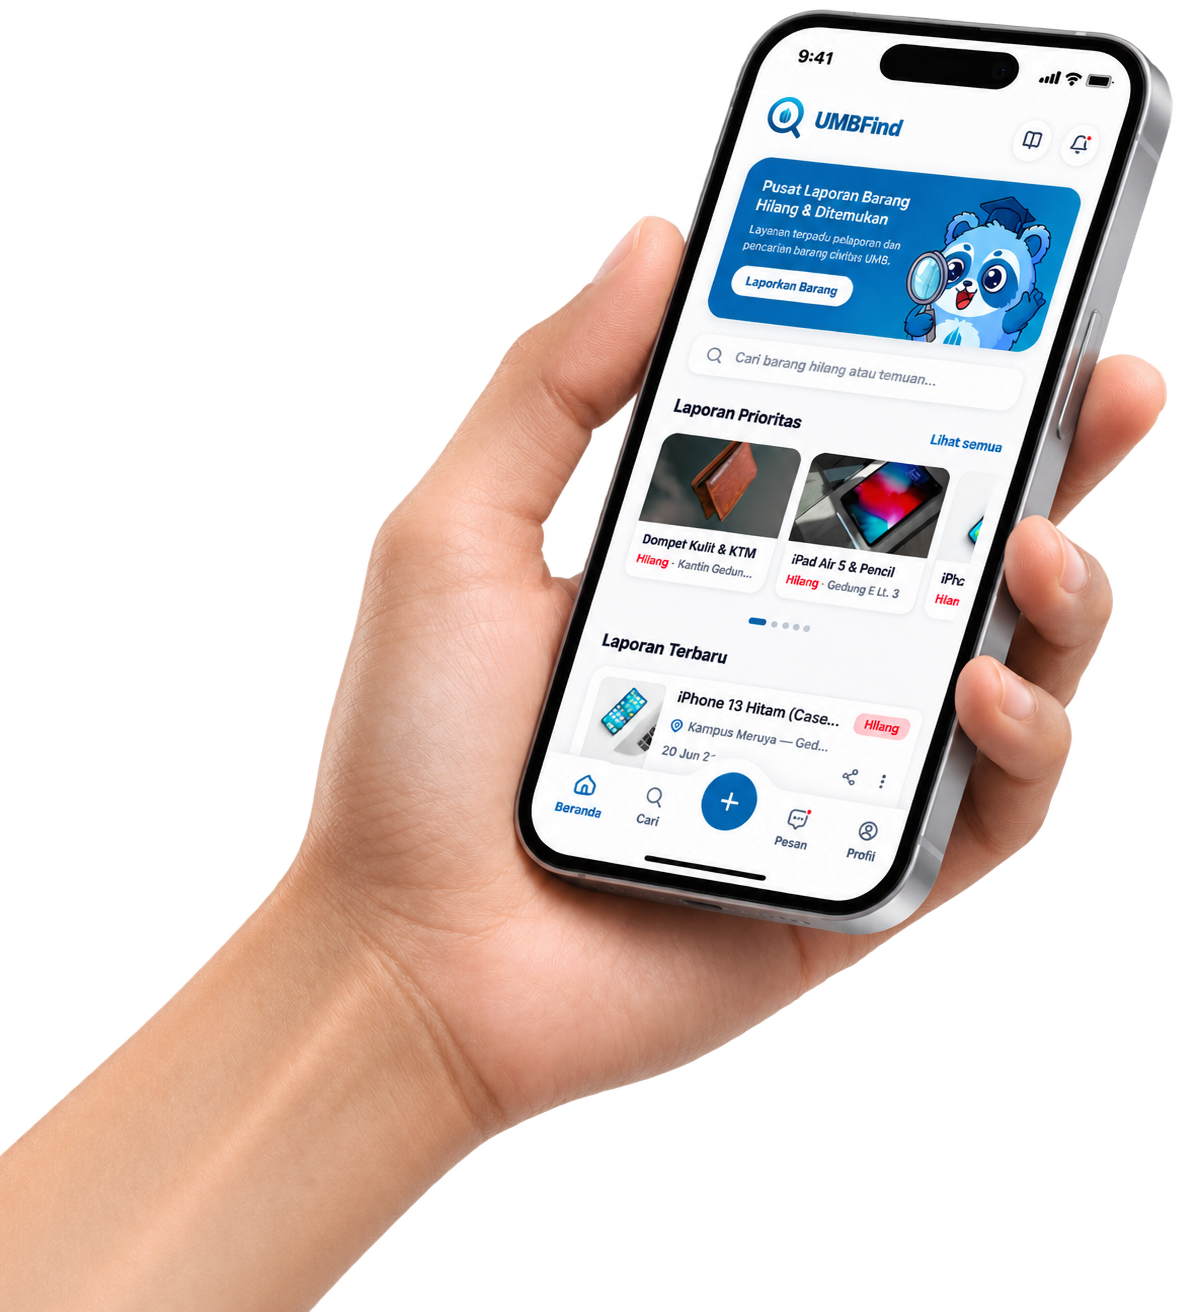
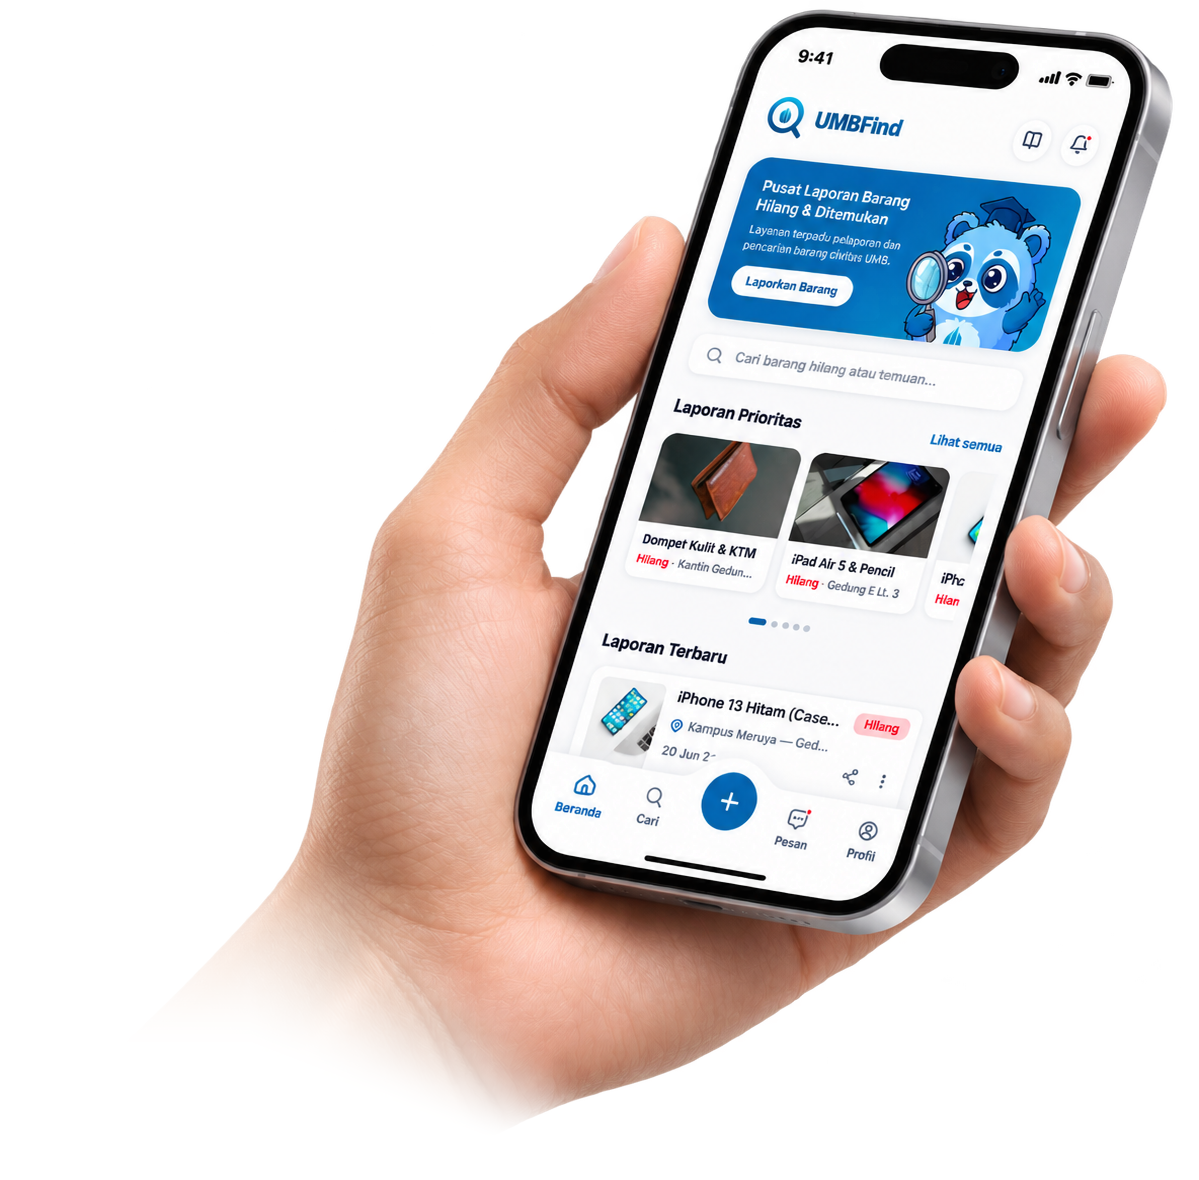
style(landing): remove blur box, raise cut point, and apply seamless natural fade out on mockup

diff --git a/resources/views/landing.blade.php b/resources/views/landing.blade.php
@@ -333,7 +333,7 @@
             overflow: visible;
         }
 
-        /* Mockup Container (Ukuran Lebih Besar & Proporsional Sesuai Referensi) */
+        /* Mockup Container (Ukuran Proporsional & Transisi Fade Alami) */
         .hero-mockup-wrapper {
             position: relative;
             z-index: 10;
@@ -342,8 +342,6 @@
             display: flex;
             justify-content: center;
             margin-bottom: -1px;
-            -webkit-mask-image: linear-gradient(to bottom, #000000 0%, #000000 60%, rgba(0,0,0,0.45) 82%, transparent 100%);
-            mask-image: linear-gradient(to bottom, #000000 0%, #000000 60%, rgba(0,0,0,0.45) 82%, transparent 100%);
         }
 
         .hero-phone-img {
@@ -351,31 +349,14 @@
             height: auto;
             display: block;
             object-fit: contain;
-            filter: drop-shadow(0 20px 40px rgba(0, 0, 0, 0.08));
+            filter: drop-shadow(0 20px 40px rgba(0, 0, 0, 0.07));
             user-select: none;
             pointer-events: none;
-        }
-
-        /* Soft Fade Blur Edge di Ujung Bawah Mockup */
-        .hero-fade-blur-edge {
-            position: absolute;
-            bottom: 0;
-            left: 0;
-            right: 0;
-            height: 140px;
-            background: linear-gradient(to bottom, rgba(255, 255, 255, 0) 0%, rgba(255, 255, 255, 0.6) 45%, rgba(255, 255, 255, 0.95) 80%, #ffffff 100%);
-            backdrop-filter: blur(6px);
-            -webkit-backdrop-filter: blur(6px);
-            pointer-events: none;
-            z-index: 20;
         }
 
         @media (max-width: 768px) {
             .hero-mockup-wrapper {
                 max-width: 100%;
-            }
-            .hero-fade-blur-edge {
-                height: 90px;
             }
         }
 
@@ -484,16 +465,13 @@
 
             <!-- Centerpiece Smartphone Mockup Stage -->
             <div class="hero-mockup-stage">
-                <!-- Hand holding iPhone Phone Mockup (New Version 2) -->
+                <!-- Hand holding iPhone Phone Mockup (New Version 2 with Smooth Native Fade) -->
                 <div class="hero-mockup-wrapper">
                     <picture>
                         <source srcset="{{ asset('images/phone-mockup-2.webp') }}" type="image/webp">
-                        <img src="{{ asset('images/phone-mockup-2.png') }}" alt="Mockup Aplikasi UMBFind di Ponsel" class="hero-phone-img" width="1199" height="1312" loading="eager">
+                        <img src="{{ asset('images/phone-mockup-2.png') }}" alt="Mockup Aplikasi UMBFind di Ponsel" class="hero-phone-img" width="1199" height="1180" loading="eager">
                     </picture>
                 </div>
-
-                <!-- Soft Fade Blur Overlay di Ujung Bawah Mockup -->
-                <div class="hero-fade-blur-edge"></div>
             </div>
         </section>
     </main>
